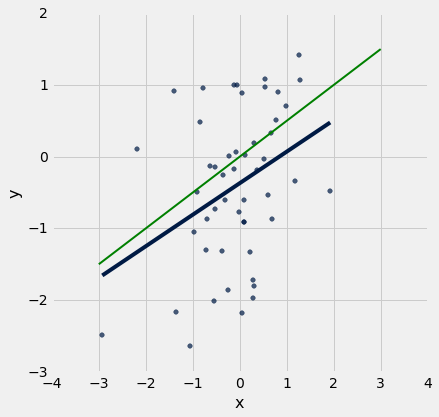
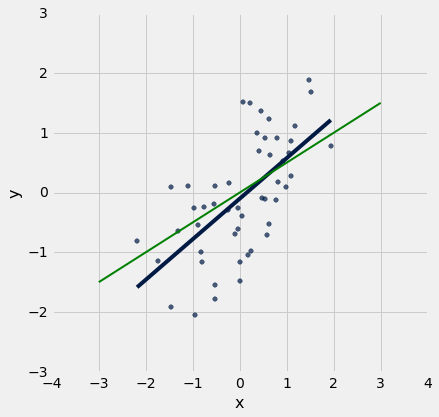
Build notebooks

diff --git a/notebooks-html/Prediction.html b/notebooks-html/Prediction.html
@@ -39,13 +39,13 @@
 <ul>
 <li><p>The <code>x</code> are sampled from the normal distribution.</p>
 </li>
-<li><p>For each <code>x</code>, its corresponding <code>y</code> is sampled using the <code>signal_and_noise</code> function below, which takes <code>x</code> and a correlation coefficient <code>r</code>.</p>
+<li><p>For each <code>x</code>, its corresponding <code>y</code> is sampled using the <code>signal_and_noise</code> function below, which takes <code>x</code> and the correlation coefficient <code>r</code>.</p>
 </li>
 </ul></div></div>
 <div class="inner_cell">
     <div class="input_area">
 <div class=" highlight hl-ipython3"><pre><span class="k">def</span> <span class="nf">signal_and_noise</span><span class="p">(</span><span class="n">x</span><span class="p">,</span> <span class="n">r</span><span class="p">):</span>
-    <span class="k">return</span> <span class="n">r</span> <span class="o">*</span> <span class="n">x</span> <span class="o">+</span> <span class="n">np</span><span class="o">.</span><span class="n">random</span><span class="o">.</span><span class="n">normal</span><span class="p">()</span>
+    <span class="k">return</span> <span class="n">r</span> <span class="o">*</span> <span class="n">x</span> <span class="o">+</span> <span class="n">np</span><span class="o">.</span><span class="n">random</span><span class="o">.</span><span class="n">normal</span><span class="p">()</span> <span class="o">*</span> <span class="p">(</span><span class="mi">1</span><span class="o">-</span><span class="n">r</span><span class="o">**</span><span class="mi">2</span><span class="p">)</span><span class="o">**</span><span class="mf">0.5</span>
 </pre></div></div></div>
 <div class="inner_cell">
 <div class="text_cell_render border-box-sizing rendered_html">
@@ -60,7 +60,7 @@
         <span class="n">pairs</span><span class="o">.</span><span class="n">append</span><span class="p">([</span><span class="n">x</span><span class="p">,</span> <span class="n">y</span><span class="p">])</span>
     <span class="k">return</span> <span class="n">pairs</span>
 
-<span class="n">regression_model</span><span class="p">(</span><span class="mi">1</span><span class="o">/</span><span class="mi">2</span><span class="p">,</span> <span class="mi">1000</span><span class="p">)</span><span class="o">.</span><span class="n">scatter</span><span class="p">(</span><span class="s">'x'</span><span class="p">,</span> <span class="s">'y'</span><span class="p">)</span>
+<span class="n">regression_model</span><span class="p">(</span><span class="mf">0.5</span><span class="p">,</span> <span class="mi">1000</span><span class="p">)</span><span class="o">.</span><span class="n">scatter</span><span class="p">(</span><span class="s">'x'</span><span class="p">,</span> <span class="s">'y'</span><span class="p">)</span>
 </pre></div></div></div>
 <div class="output_png output_subarea ">
 <img src="../notebooks-images/Prediction_9_0.png"/></div>
@@ -92,7 +92,7 @@
 <div class=" highlight hl-ipython3"><pre><span class="n">compare</span><span class="p">(</span><span class="mf">0.5</span><span class="p">,</span> <span class="mi">50</span><span class="p">)</span>
 </pre></div></div></div>
 <div class="output_subarea output_stream output_stdout output_text">
-<pre>The true r is  0.5  and the estimated r is  0.357274460168
+<pre>The true r is  0.5  and the estimated r is  0.627329170668
 </pre></div>
 <div class="output_png output_subarea ">
 <img src="../notebooks-images/Prediction_13_1.png"/></div>
